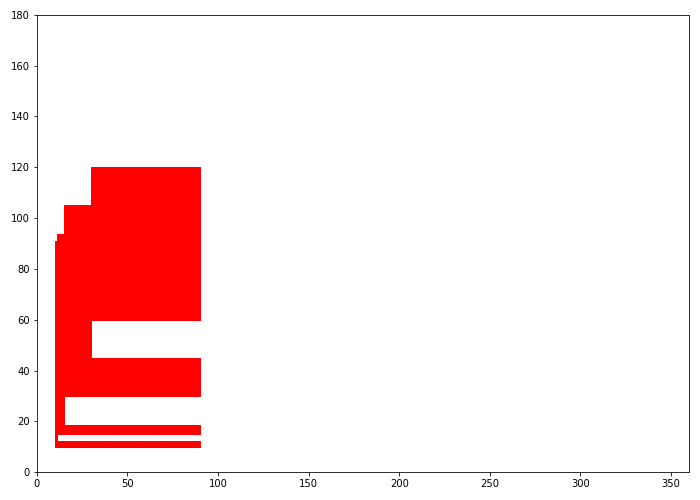
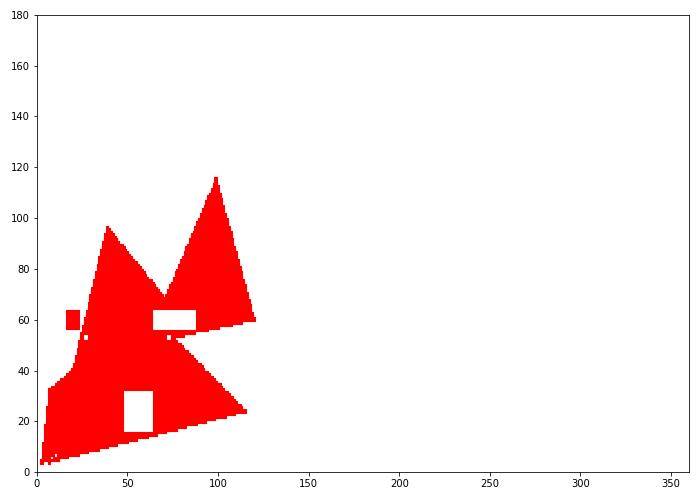
new testcase

Changed region(s): [[0.06, 0.33, 0.36, 0.93]]

diff --git a/QuadTree/quadtree_polygon.py b/QuadTree/quadtree_polygon.py
@@ -121,7 +121,8 @@ class Polygon:
         return cnt
 
     def containsPoint(self, p: Point) -> bool:
-        return self.numIntersect(p, Point(self.maxLon + 1, p.lat)) % 2 == 1
+        # return self.numIntersect(p, Point(self.maxLon + 1, p.lat)) % 2 == 0
+        return self.numIntersect(p, Point(300, p.lat)) % 2 == 1
 
 
 class BoundingBox:
@@ -143,7 +144,7 @@ class BoundingBox:
         Returns true if the bounding box contains point
         """
         return (point is not None) and (
-            self.west <= point.lon < self.east and self.north <= point.lat < self.south
+            self.west < point.lon < self.east and self.north < point.lat < self.south
         )
 
     def positionVsPolygon(self, polygon: Polygon) -> int:
@@ -175,10 +176,10 @@ class BoundingBox:
 
     def draw(self, ax: Axes) -> None:
         box = patches.Rectangle(
-            (self.west, self.south),
+            (self.west, self.north),
             self.width,
             self.height,
-            linewidth=1,
+            linewidth=0.1,
             edgecolor="r",
             facecolor="r",
         )
@@ -186,7 +187,7 @@ class BoundingBox:
 
 
 class PolygonQuadTree:
-    DIVISION_UNIT = 0.1  # smallest width of a node
+    DIVISION_UNIT = 1  # smallest width of a node
 
     def __init__(self, boundBox: BoundingBox) -> None:
         self.boundBox: BoundingBox = boundBox
@@ -217,8 +218,8 @@ class PolygonQuadTree:
             child = PolygonQuadTree(
                 BoundingBox(
                     Point(
-                        self.boundBox.center.lon + pow(-1, i & 1) * newWidth / 2,
-                        self.boundBox.center.lat + pow(-1, i >> 1) * newHeight / 2,
+                        self.boundBox.center.lon + pow(-1, i & 1) * newWidth/2,
+                        self.boundBox.center.lat + pow(-1, i >> 1) * newHeight/2,
                     ),
                     newWidth,
                     newHeight,
@@ -239,19 +240,33 @@ DPI = 72  # dots (pixels) per inch
 
 width, height = 360, 180
 
-A = Point(10,10)
-B= Point(90,10)
-C= Point(90,90)
-D= Point(10,90)
+A=Point(20,40)
+B=Point(39,96)
+C=Point(71,68)
+D=Point(99,115)
+E=Point(120,60)
+F=Point(75,53)
+G=Point(115,24)
+H=Point(7,4)
+I=Point(40,20)
+J=Point(3,4)
+K=Point(7,32)
 
 listP = []
 listP.append(A)
 listP.append(B)
 listP.append(C)
 listP.append(D)
+listP.append(E)
+listP.append(F)
+listP.append(G)
+listP.append(H)
+listP.append(I)
+listP.append(J)
+listP.append(K)
 
-center = Point(60,60)
-testBB = BoundingBox(center,120,120)
+center = Point(64,64)
+testBB = BoundingBox(center,128,128)
 testQT = PolygonQuadTree(testBB)
 testPoly = Polygon(listP)
 
